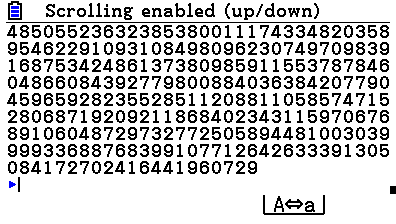
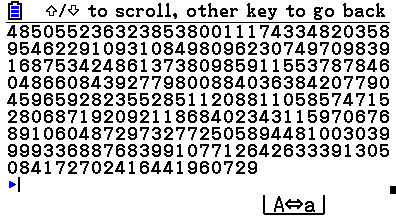
Change message shown when scrolling.

Changed region(s): [[0.0909, 0.0, 0.9697, 0.0938]]

diff --git a/src/dConsole.cpp b/src/dConsole.cpp
@@ -160,7 +160,7 @@ int dGetLine (char * s,int max, int isRecording) {
       do start++; while (pos>start+width-1);
     }
     if(isscrolling) {
-      DefineStatusMessage((char*)"Scrolling enabled (up/down)", 1, 0, 0);
+      DefineStatusMessage((char*)"\xE5\xEA/\xE5\xEB to scroll, other key to go back", 1, 0, 0);
       DisplayStatusArea();
     }
     if (refresh) {
